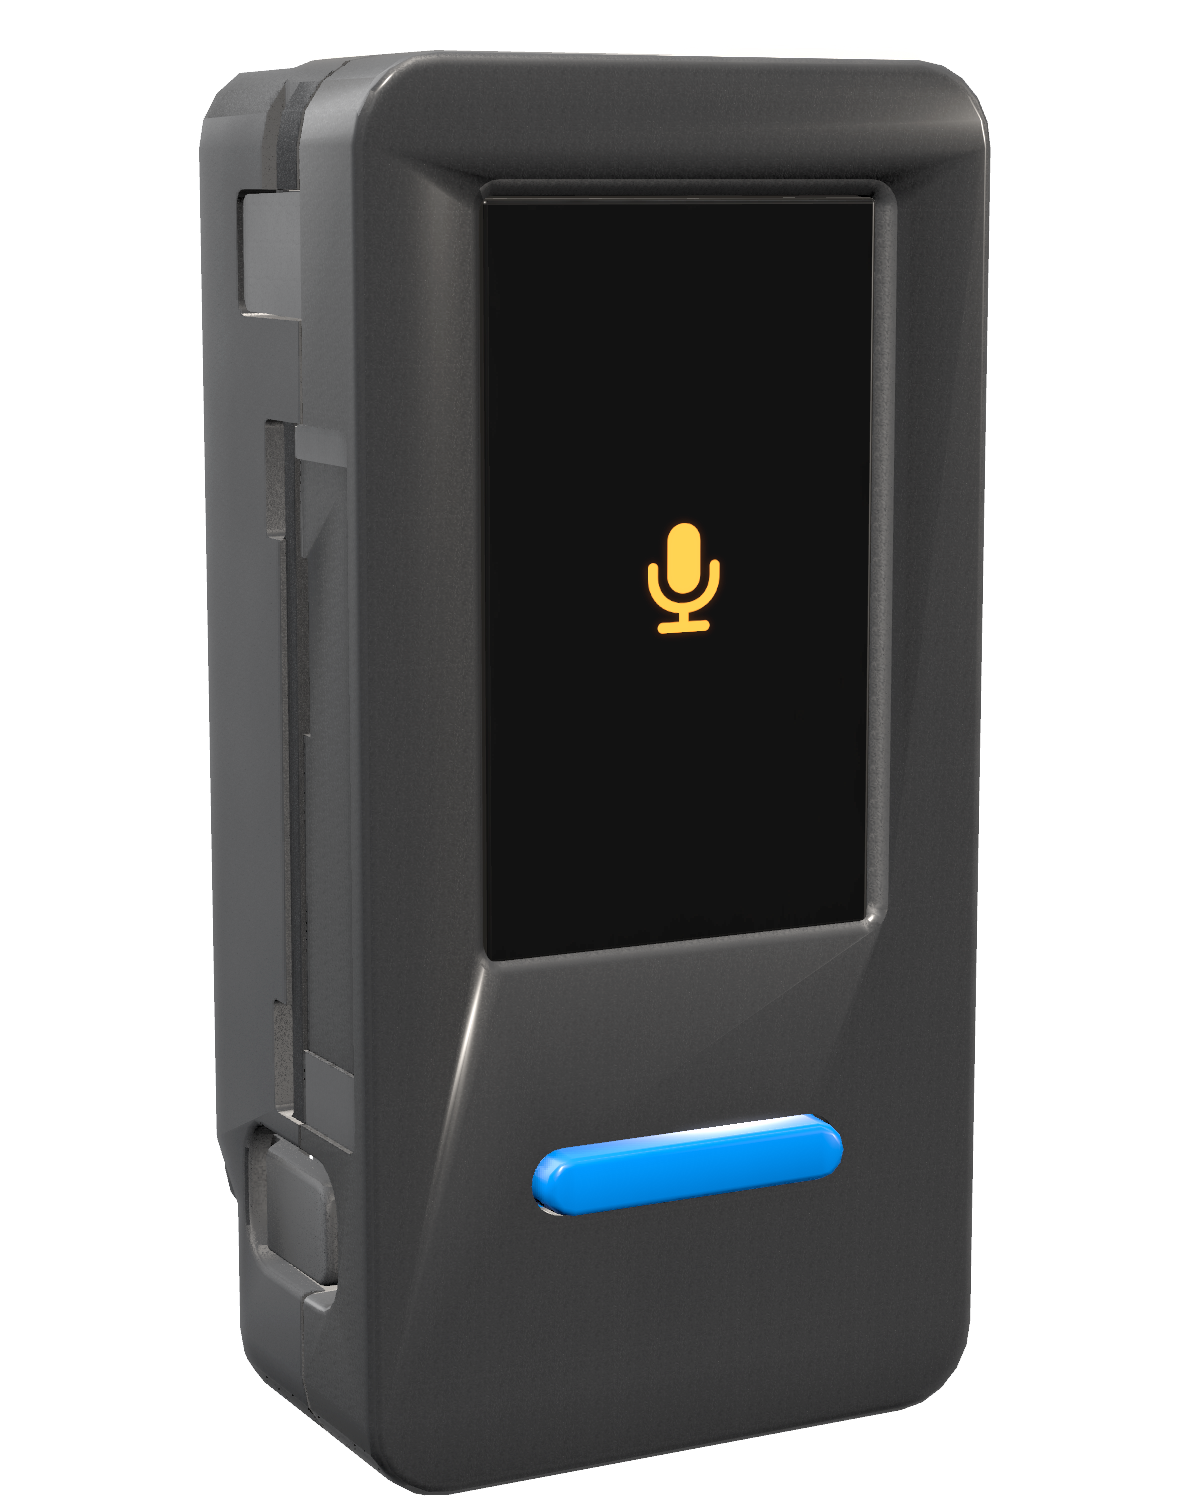
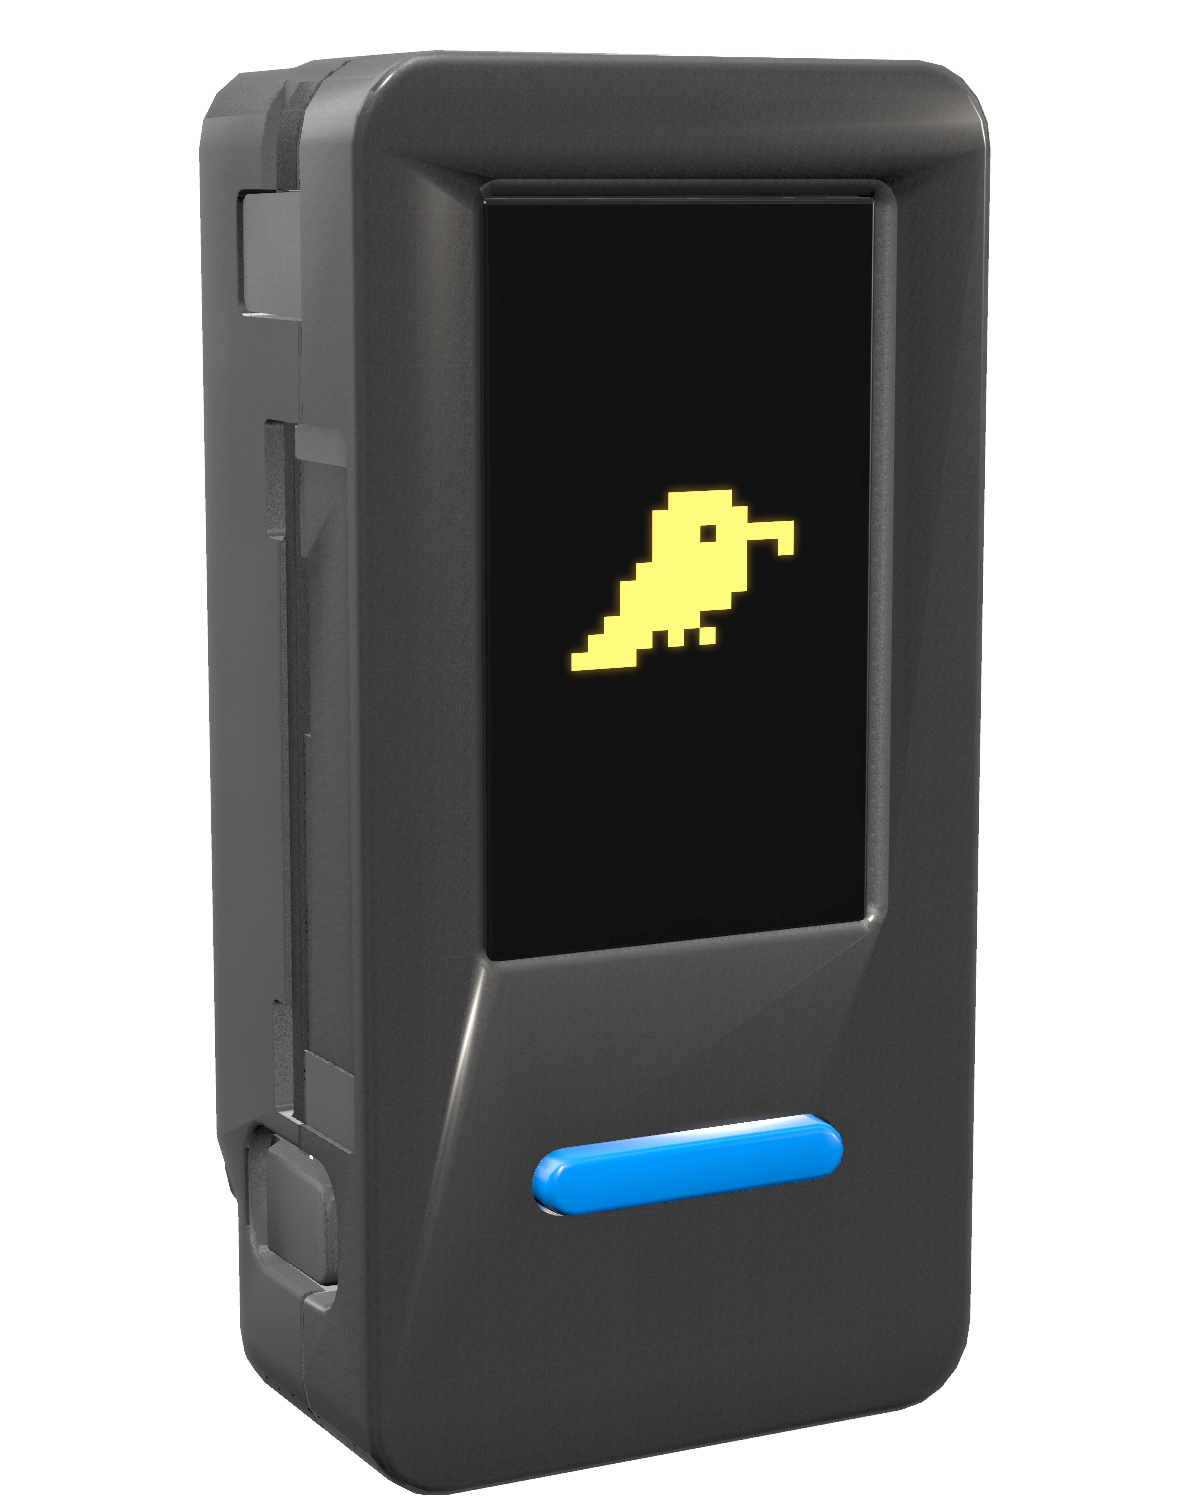
feat: the rendered Stick shows its parrot instead of a microphone

Changed region(s): [[0.4625, 0.3067, 0.6783, 0.46]]

diff --git a/Design/StickRender/render.swift b/Design/StickRender/render.swift
@@ -67,18 +67,32 @@ func studioEnvironment() -> NSImage {
     }
 }
 
-/// What the Stick's own screen shows in the hero: the ready mic, lit.
+/// What the Stick's own screen shows in the hero: its parrot, lit.
 func screenImage() -> NSImage {
     let size = NSSize(width: 270, height: 480)
-    return NSImage(size: size, flipped: false) { rect in
+    let rows = [
+        "......####....",
+        ".....######...",
+        ".....###.#####",
+        ".....######..#",
+        "....#######...",
+        "...########...",
+        "...#######....",
+        "..######......",
+        ".####.#.#.....",
+        "####..........",
+    ]
+    return NSImage(size: size, flipped: true) { rect in
         NSColor(white: 0.015, alpha: 1).setFill()
         rect.fill()
-        let config = NSImage.SymbolConfiguration(pointSize: 64, weight: .semibold)
-            .applying(.init(paletteColors: [NSColor(calibratedRed: 1, green: 0.48, blue: 0.16, alpha: 1)]))
-        if let mic = NSImage(systemSymbolName: "mic.fill", accessibilityDescription: nil)?.withSymbolConfiguration(config) {
-            let micRect = NSRect(x: (size.width - mic.size.width) / 2, y: (size.height - mic.size.height) / 2,
-                                 width: mic.size.width, height: mic.size.height)
-            mic.draw(in: micRect)
+        let cell: CGFloat = 11
+        let origin = CGPoint(x: (size.width - cell * CGFloat(rows[0].count)) / 2,
+                             y: (size.height - cell * CGFloat(rows.count)) / 2)
+        NSColor(calibratedRed: 236 / 255, green: 186 / 255, blue: 64 / 255, alpha: 1).setFill()
+        for (r, row) in rows.enumerated() {
+            for (c, ch) in row.enumerated() where ch == "#" {
+                NSRect(x: origin.x + CGFloat(c) * cell, y: origin.y + CGFloat(r) * cell, width: cell, height: cell).fill()
+            }
         }
         return true
     }
